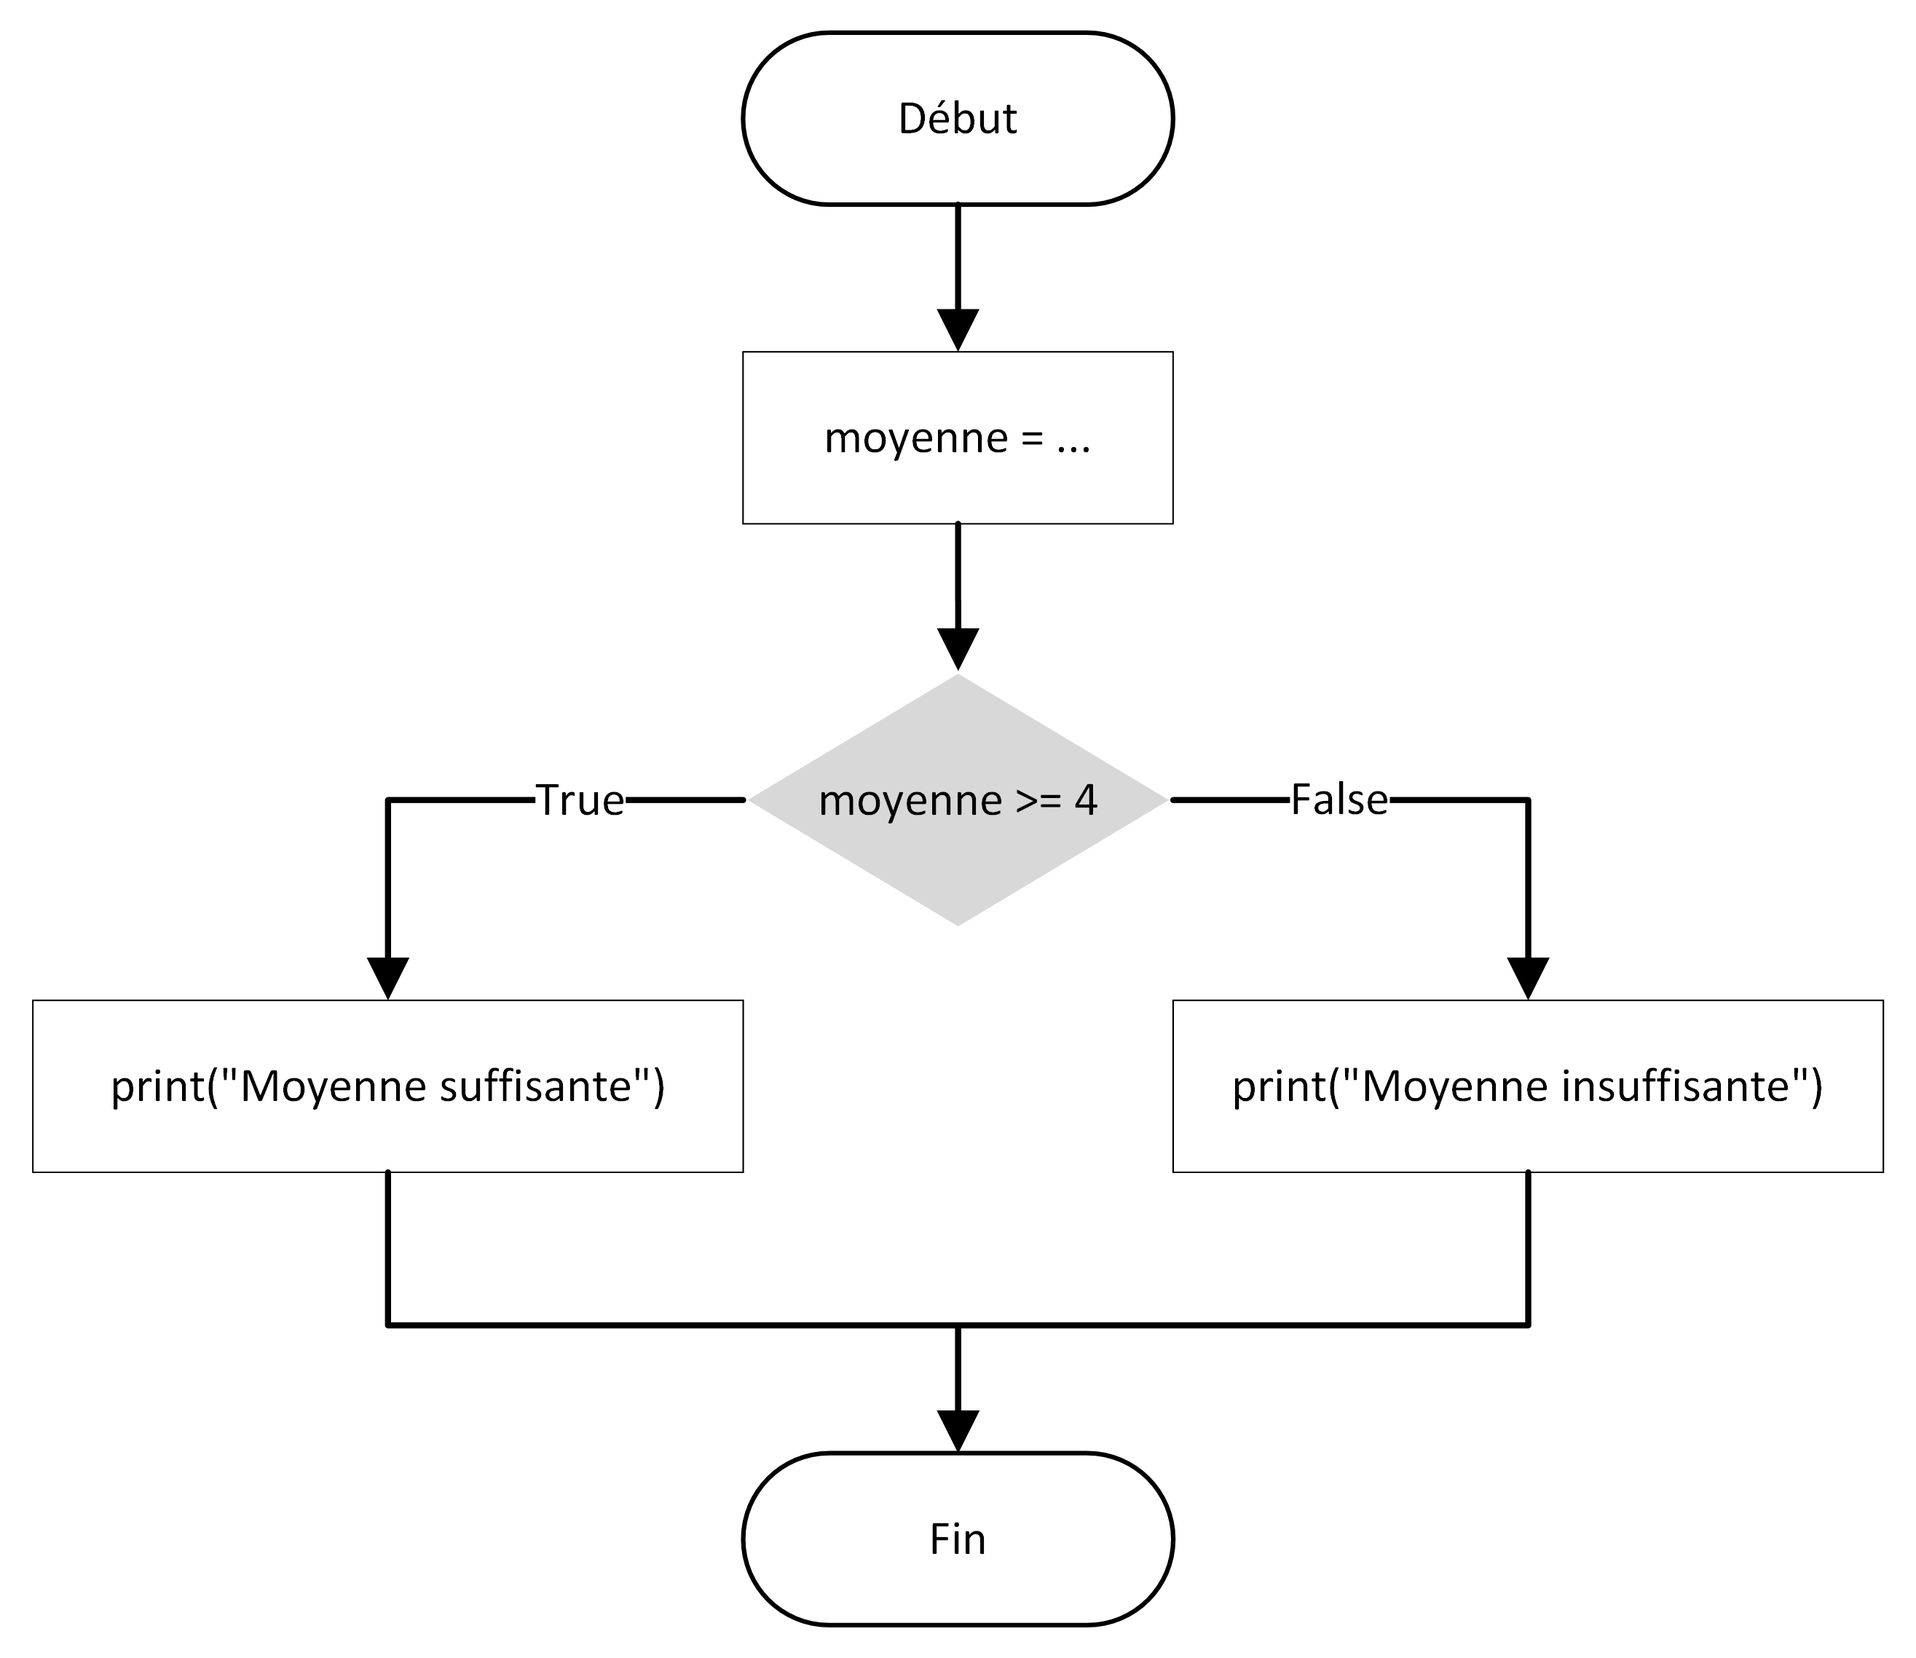
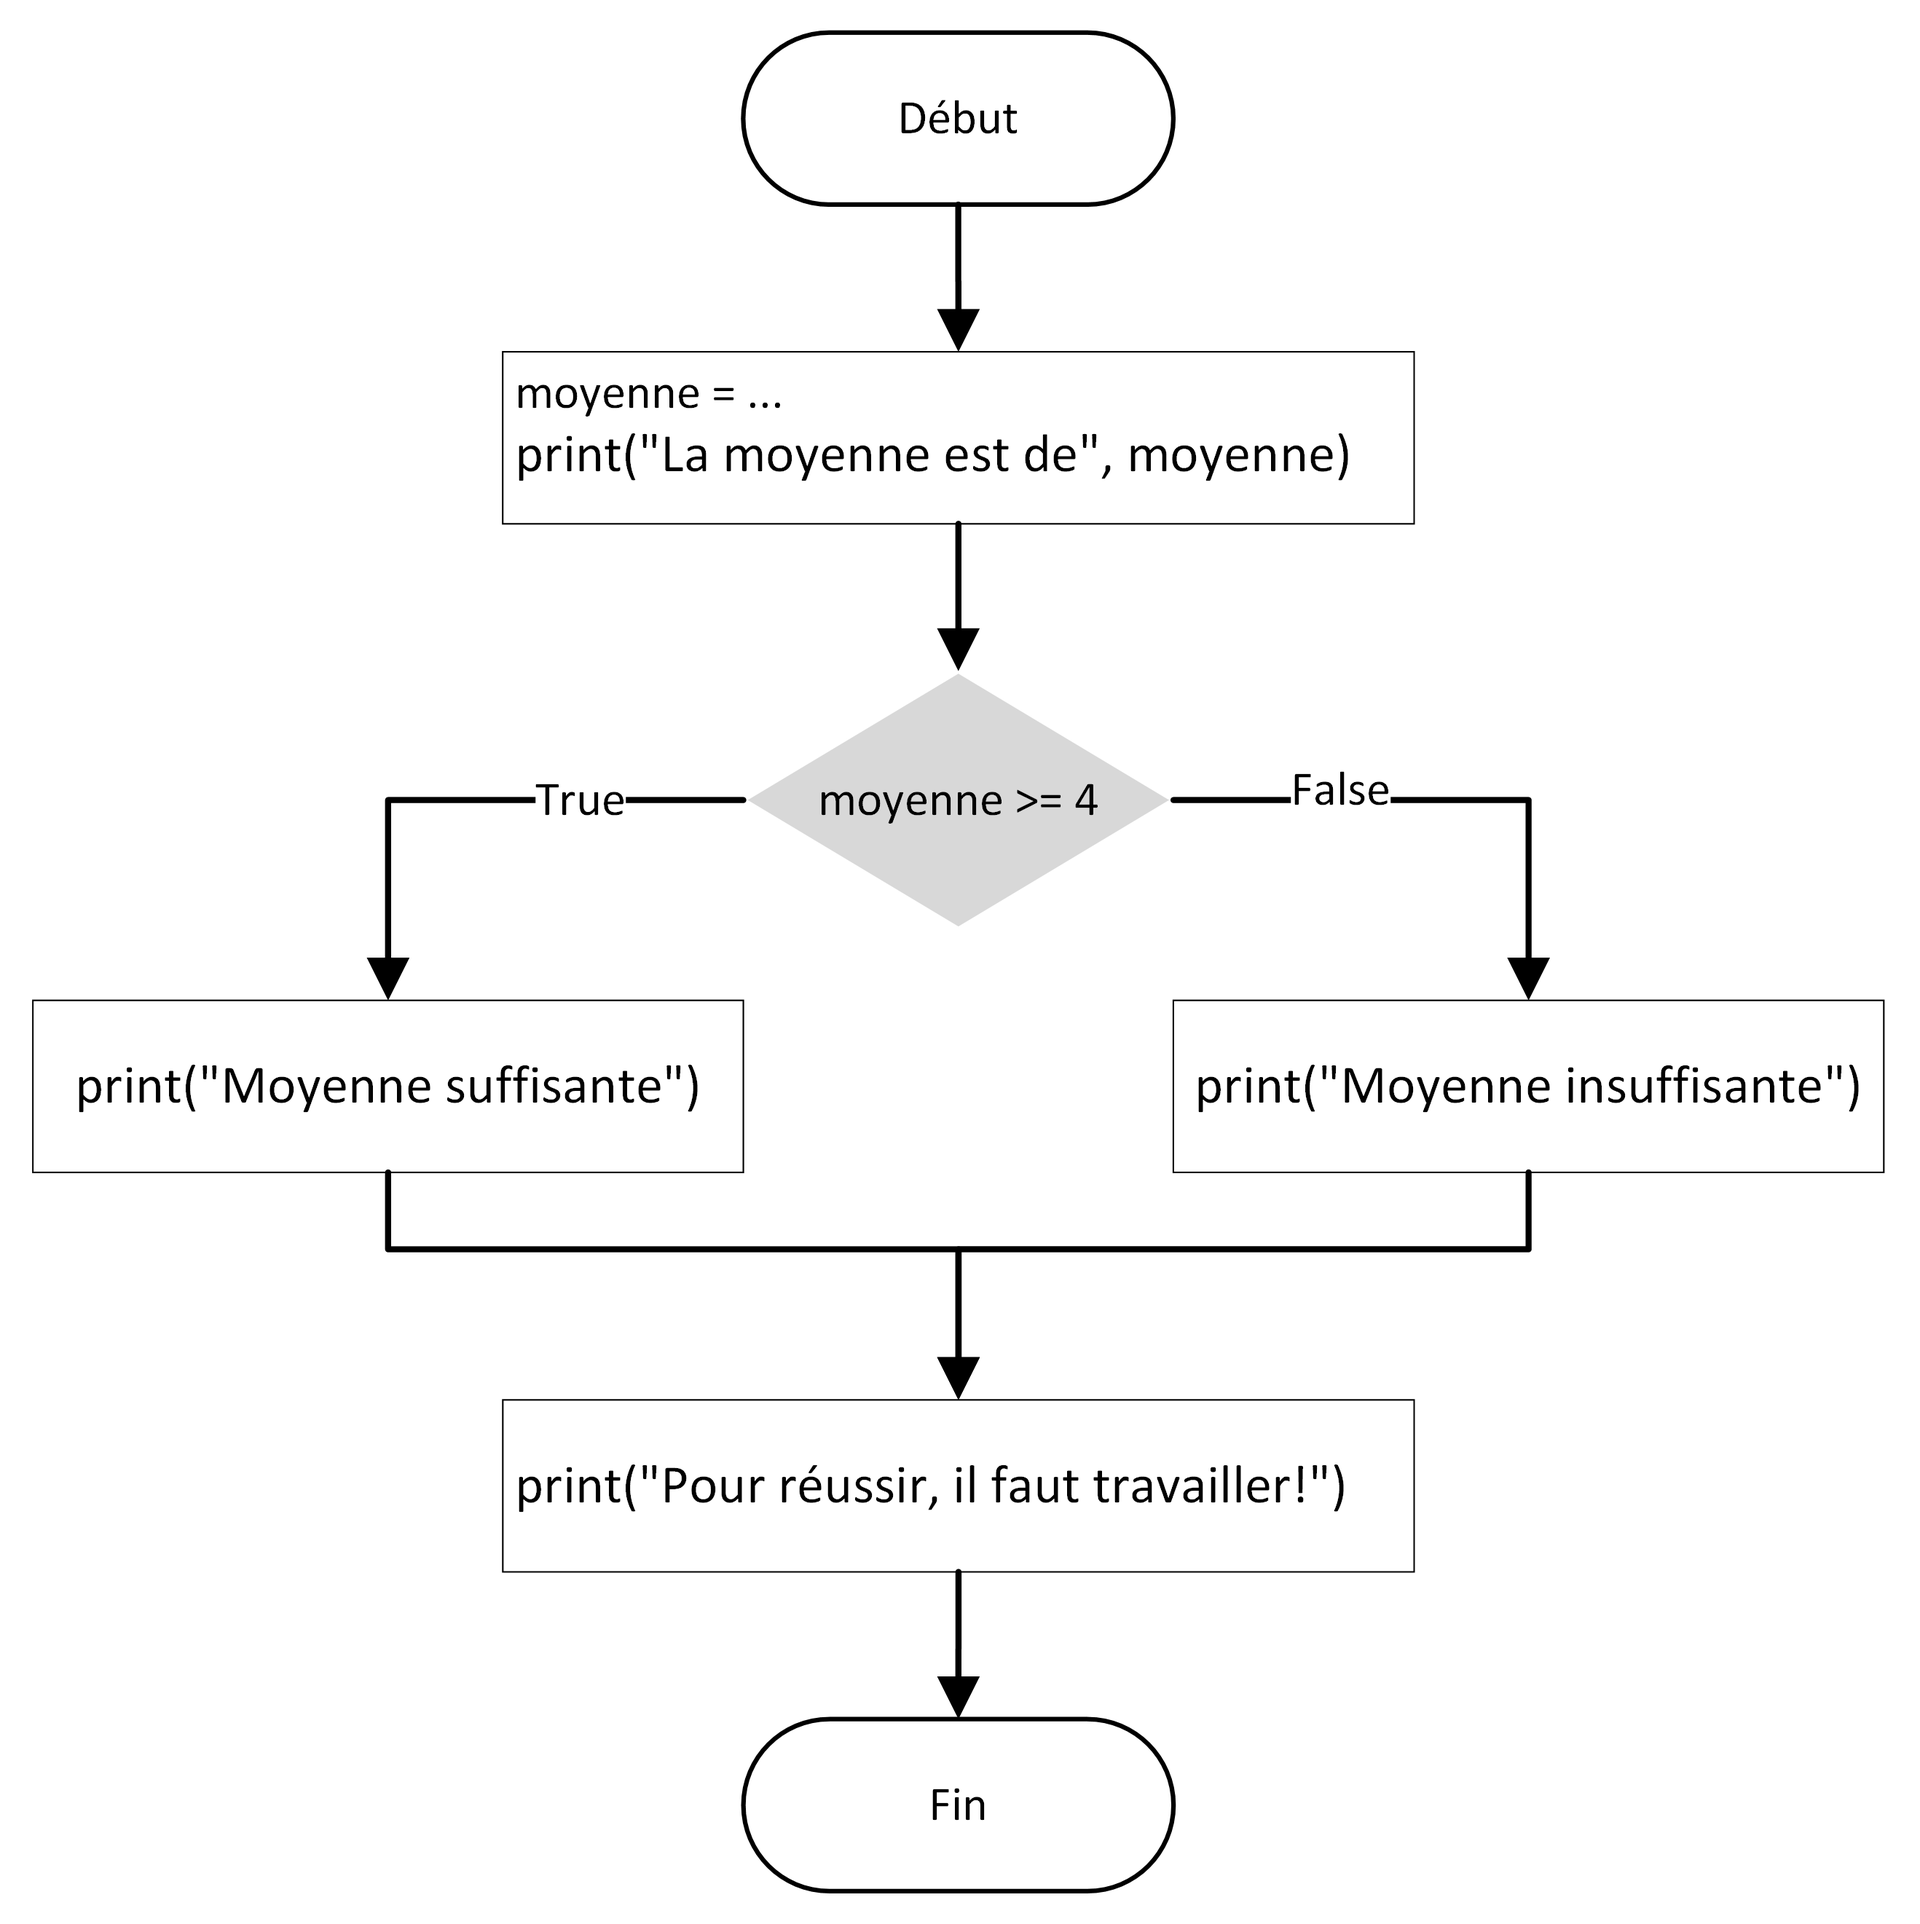
Améliorations et corrections.

diff --git a/docs/python-1/for.md b/docs/python-1/for.md
@@ -87,6 +87,11 @@ Ensuite, tester vos réponses en les exécutant.
 ### Exercice {num}`exo-py1`
 
 1. Que fait le programme suivant?
+```{exec} python
+:editor: cdf06593-2fc5-4f68-af74-2a6113bec6dc
+for _ in range(6):
+  print("Salut")
+```
 2. Modifiez-le pour qu'il affiche 9 fois "Salut".
 3. Modifiez-le pour qu'il affiche:
     ```{code-block} text
@@ -99,11 +104,6 @@ Ensuite, tester vos réponses en les exécutant.
     ```
 4. Modifiez-le pour qu'à la fin du programme, il afficher "Au revoir!".
 
-```{exec} python
-:editor: cdf06593-2fc5-4f68-af74-2a6113bec6dc
-for _ in range(6):
-  print("Salut")
-```
 
 ````{solution}
 ```{exec} python
@@ -118,7 +118,7 @@ print("Au revoir!")
 ## Utilisation de la variable de la boucle for
 
 La boucle `for` fait plus que juste répéter x fois un bloc d'instructions: pour
-chaque itération (passage de la boucle), la variable (dans l'exemple ci-dessous
+chaque itération (passage dans la boucle), la variable (dans l'exemple ci-dessous
 nommée `i`) va prendre la valeur de l'ensemble `range(n)`, c'est-à-dire
 l'ensemble des nombres entiers de $0$ à $n$ non compris $\{0; 1; 2; ...; n-1\}$.
 Il est donc possible d'utiliser la valeur de cette variable dans la boucle.
@@ -194,7 +194,7 @@ for i in range(1, 11):
 ### Exercice {num}`exo-py1`
 
 Écrivez un programme qui calcule et affiche la somme des dix premiers nombres
-entiers.
+entiers plus grands que 0.
 
 ```{exec} python
 :editor: 861f4829-841e-48f7-8597-91d4153f3cde
@@ -238,7 +238,7 @@ Il y a plusieurs manières de faire.
 ### Exercice {num}`exo-py1`
 
 Écrivez un programme qui calcule et affiche le produit des cinq premiers nombres
-entiers.
+entiers plus grands que 0.
 
 ```{exec} python
 :editor: 165c348a-10cd-4161-8ff4-d95acfbf7e25
@@ -266,8 +266,8 @@ print(produit)
 
 ### Exercice {num}`exo-py1`
 
-Écrivez un programme qui demande à l'utilisateur un nombre entier et affiche les
-10 premiers multiples de ce nombre.
+Écrivez un programme qui demande à l'utilisateur un nombre entier positif et
+affiche les 10 premiers multiples de ce nombre.
 
 ```{exec} python
 :editor: f935054b-3ed6-4a42-9e73-e6330a770f1d

diff --git a/docs/python-1/if.md b/docs/python-1/if.md
@@ -55,8 +55,10 @@ Le bloc d'instructions ne sera exécuté que si la condition est vraie.
 :editor:
 print("Début")
 meteo = "soleil"
+print("Je mets ma veste.")
 if meteo == "pluie":
   print("Je prends un parapluie.")
+print("Je pars.")
 print("Fin")
 ```
 
@@ -77,10 +79,14 @@ sinon ce sera le bloc d'instructions du `else` qui sera exécuté.
 ```{exec} python
 :editor:
 moyenne = 5
+print("La moyenne est de", moyenne)
+
 if moyenne >= 4:
   print("Moyenne suffisante")
 else:
   print("Moyenne insuffisante")
+
+print("Pour réussir, il faut travailler!")
 ```
 
 Dans l'exemple ci-dessus, soit la moyenne est suffisante (moyenne supérieure ou
@@ -101,6 +107,7 @@ Certaines situations nécessitent de distinguer plus qu'un ou deux cas.
 ```{exec} python
 :editor:
 type_film = "comédie"
+print("Le type de film est", type_film)
 
 if type_film == "action":
   print("Explosions et des cascades de folie!")
@@ -110,6 +117,8 @@ elif type_film == "horreur":
   print("Terrifiant!")
 else:
   print("Je ne connais pas.")
+
+print("Bonne séance de cinéma!")
 ```
 
 Dans l'exemple ci-dessus, il y a le choix entre trois types de films (action,
@@ -332,9 +341,9 @@ age = await input_line("Quel âge as-tu? ")
 if age > 18:
 print("Tu payes le tarif enfant.")
 elif age < 65
-  print("Tu payes le tarif adulte.")
+  print "Tu payes le tarif adulte."
 else age >= 65:
-  print ("Tu payes le tarif retraité.")
+  print(Tu payes le tarif retraité.)
 ```
 
 ````{solution}
